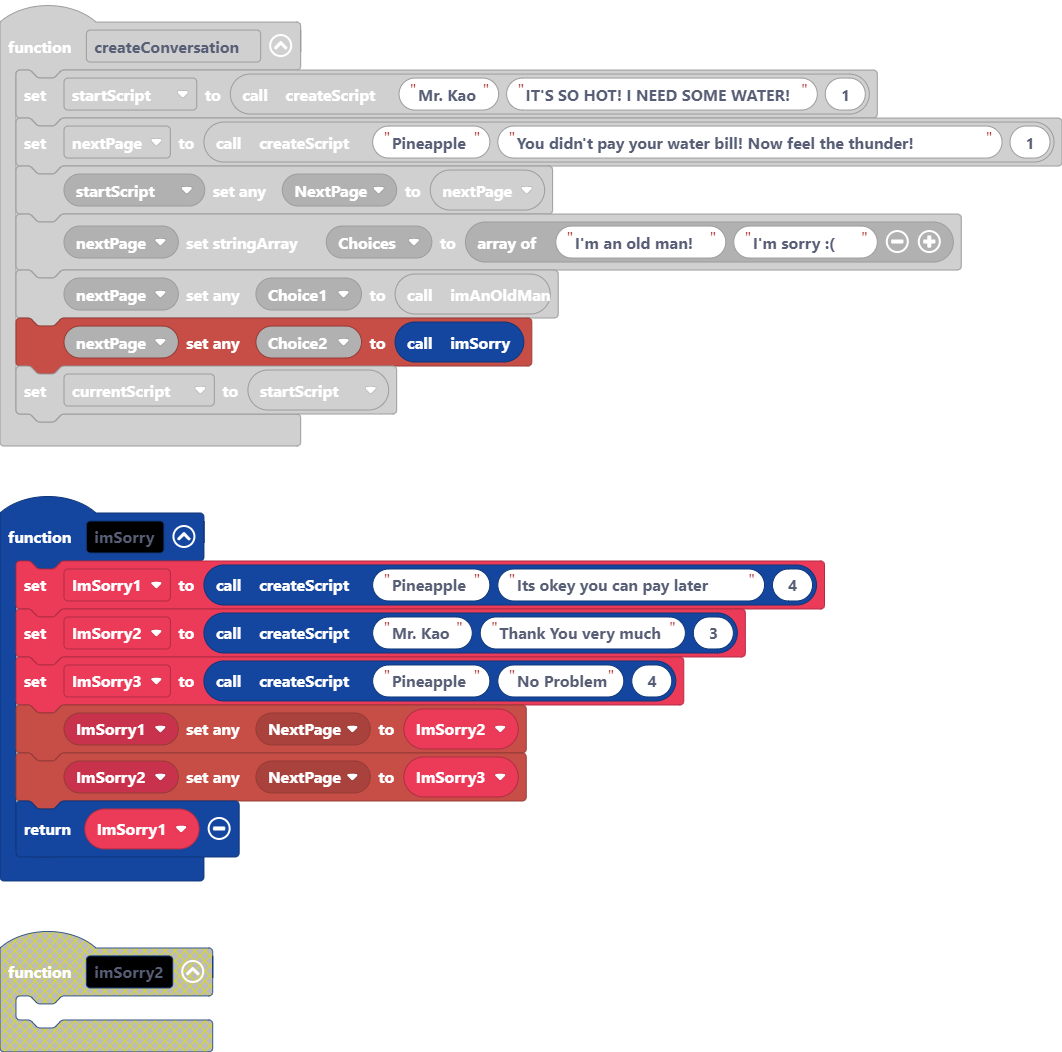
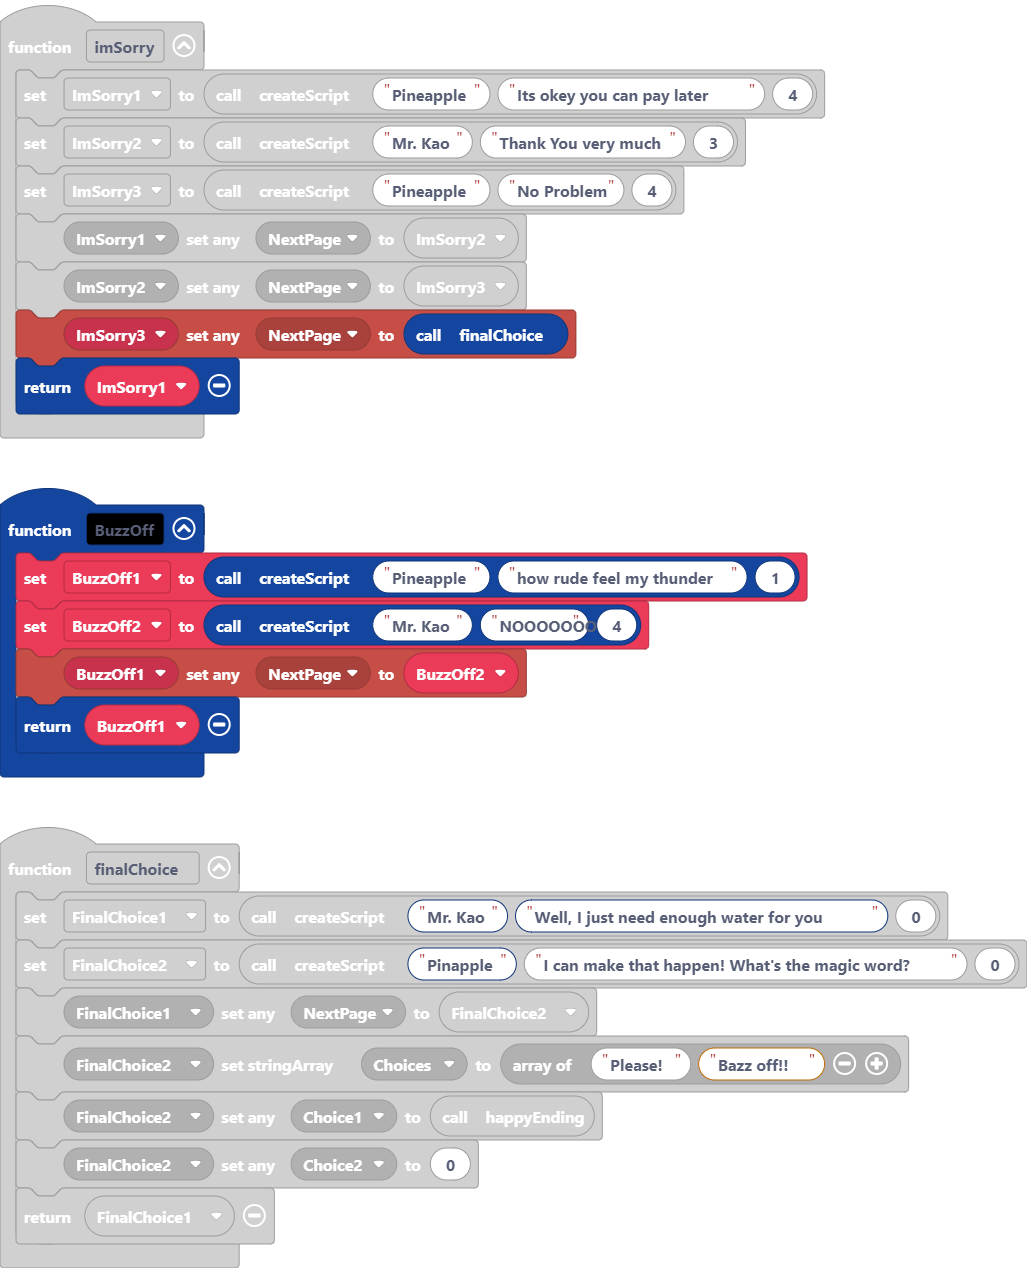
Update main.blocks, main.ts

diff --git a/main.ts b/main.ts
@@ -49,6 +49,7 @@ function imSorry () {
     ImSorry3 = createScript("Pineapple", "No Problem", 4)
     blockObject.setAnyProperty(ImSorry1, AnyProp.NextPage, ImSorry2)
     blockObject.setAnyProperty(ImSorry2, AnyProp.NextPage, ImSorry3)
+    blockObject.setAnyProperty(ImSorry3, AnyProp.NextPage, finalChoice())
     return ImSorry1
 }
 // microsoft/arcade-block-objects
@@ -102,10 +103,10 @@ controller.A.onEvent(ControllerButtonEvent.Pressed, function () {
     }
 })
 function finalChoice () {
-    FinalChoice1 = createScript("Old Man", "Well, I just need enough water for this garden here", 0)
-    FinalChoice2 = createScript("Cloud", "I can make that happen! What's the magic word?", 0)
+    FinalChoice1 = createScript("Mr. Kao", "Well, I just need enough water for you", 0)
+    FinalChoice2 = createScript("Pinapple", "I can make that happen! What's the magic word?", 0)
     blockObject.setAnyProperty(FinalChoice1, AnyProp.NextPage, FinalChoice2)
-    blockObject.setStringArrayProperty(FinalChoice2, StrArrayProp.Choices, ["Please!", "Abracadabra!"])
+    blockObject.setStringArrayProperty(FinalChoice2, StrArrayProp.Choices, ["Please!", "Bazz off!!"])
     blockObject.setAnyProperty(FinalChoice2, AnyProp.Choice1, happyEnding())
     blockObject.setAnyProperty(FinalChoice2, AnyProp.Choice2, 0)
     return FinalChoice1
@@ -173,6 +174,14 @@ function createScript (characterName: string, text: string, portrait: number) {
     blockObject.setNumberProperty(newScript, NumProp.Portrait, portrait)
     return newScript
 }
+function BuzzOff () {
+    BuzzOff1 = createScript("Pineapple", "how rude feel my thunder", 1)
+    BuzzOff2 = createScript("Mr. Kao", "NOOOOOOO", 4)
+    blockObject.setAnyProperty(BuzzOff1, AnyProp.NextPage, BuzzOff2)
+    return BuzzOff1
+}
+let BuzzOff2: blockObject.BlockObject = null
+let BuzzOff1: blockObject.BlockObject = null
 let newScript: blockObject.BlockObject = null
 let NoMoneyForYou3: blockObject.BlockObject = null
 let NoMoneyForYou2: blockObject.BlockObject = null
